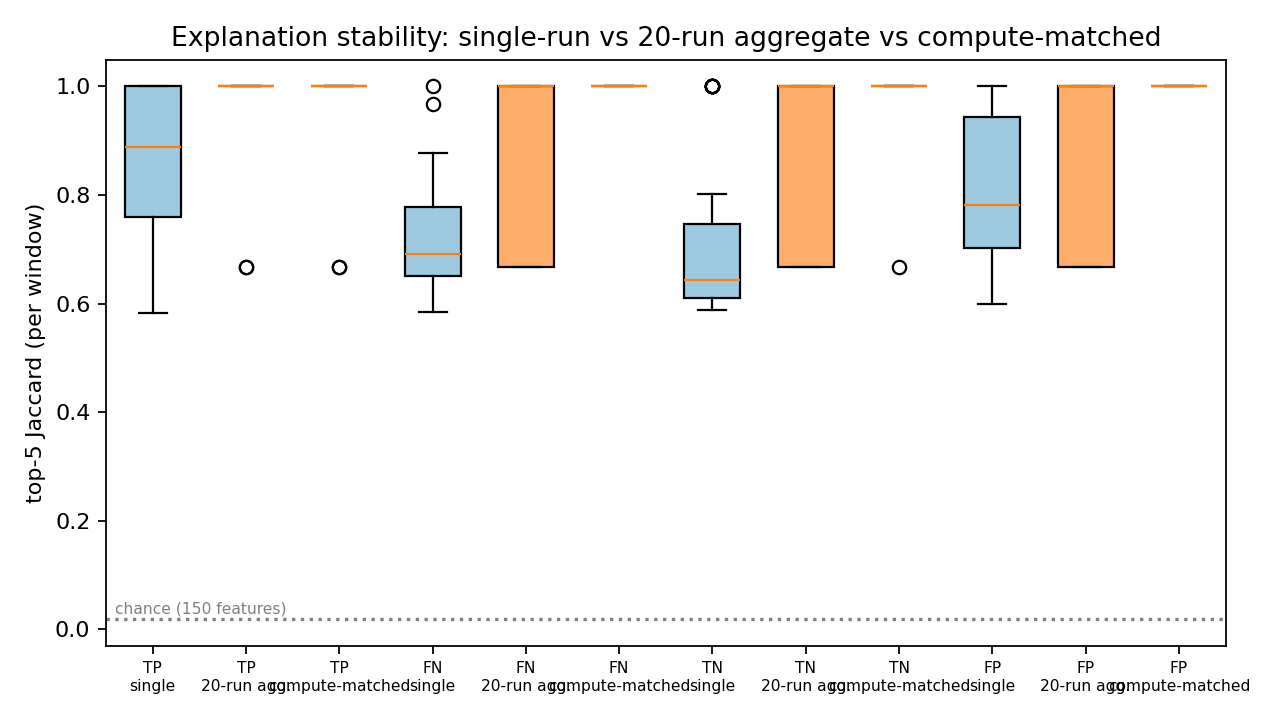
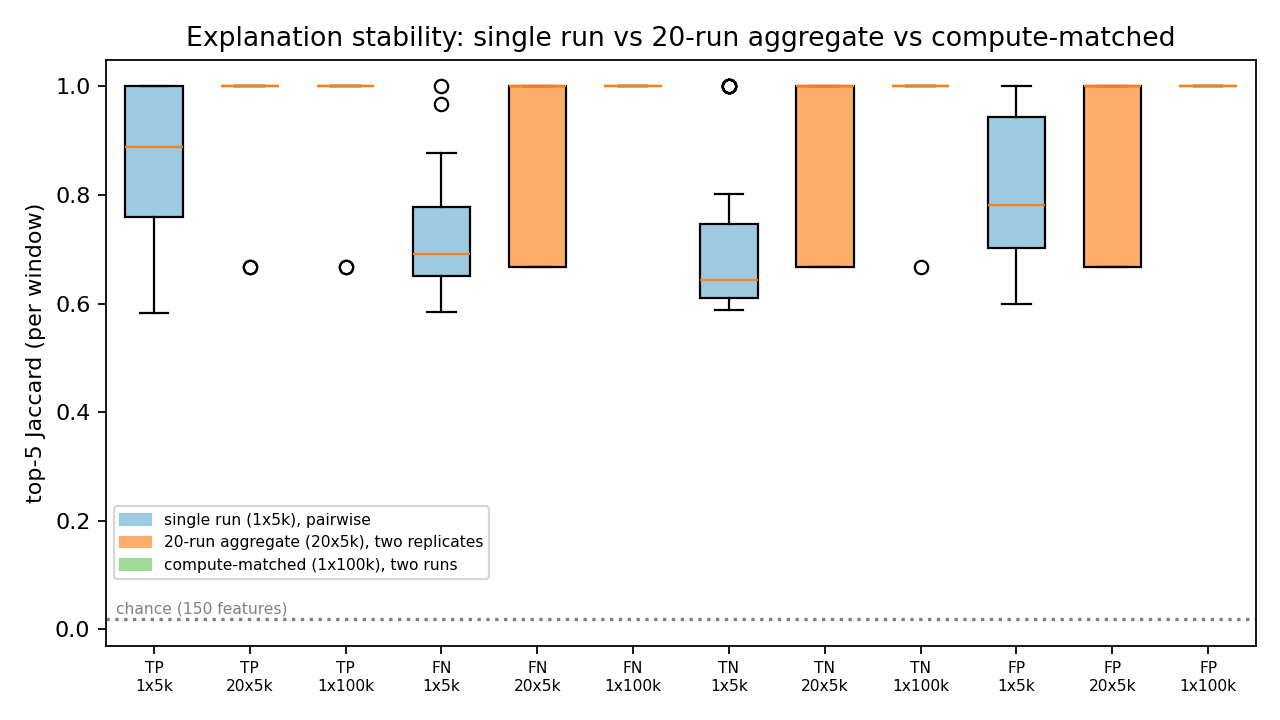
Phase 2: readable figure labels

diff --git a/src/phase2/analyze.py b/src/phase2/analyze.py
@@ -152,13 +152,16 @@ def figures(root: Path, S: pd.DataFrame, P: pd.DataFrame, rt: pd.DataFrame) -> l
     pos, data, labels = 0, [], []
     for g in GROUPS:
         d = S[S.group == g]
-        for col, lab in (("single_jaccard", "single"), ("rep_jaccard", "20-run agg."), ("cm_jaccard", "compute-matched")):
+        for col, lab in (("single_jaccard", "1x5k"), ("rep_jaccard", "20x5k"), ("cm_jaccard", "1x100k")):
             data.append(d[col].dropna().to_numpy()); labels.append(f"{g}\n{lab}")
     bp = ax.boxplot(data, patch_artist=True, widths=0.6)
     cols = ["#9ecae1", "#fdae6b", "#a1d99b"] * 4
     for patch, c in zip(bp["boxes"], cols): patch.set_facecolor(c)
     ax.set_xticks(range(1, len(labels) + 1)); ax.set_xticklabels(labels, fontsize=7)
-    ax.set_ylabel("top-5 Jaccard (per window)"); ax.set_title("Explanation stability: single-run vs 20-run aggregate vs compute-matched")
+    ax.set_ylabel("top-5 Jaccard (per window)"); ax.set_title("Explanation stability: single run vs 20-run aggregate vs compute-matched")
+    from matplotlib.patches import Patch
+    ax.legend(handles=[Patch(color="#9ecae1", label="single run (1x5k), pairwise"), Patch(color="#fdae6b", label="20-run aggregate (20x5k), two replicates"),
+                       Patch(color="#a1d99b", label="compute-matched (1x100k), two runs")], fontsize=7, loc="lower left", bbox_to_anchor=(0.0, 0.1))
     ax.axhline(S.chance_jaccard_150.mean(), ls=":", c="grey"); ax.text(0.6, S.chance_jaccard_150.mean() + 0.01, "chance (150 features)", fontsize=7, color="grey")
     fig.tight_layout(); fig.savefig(fd / "fig1_top5_jaccard.png", dpi=160); plt.close(fig); out.append("fig1_top5_jaccard.png")
     # 2/3. guided vs matched random
